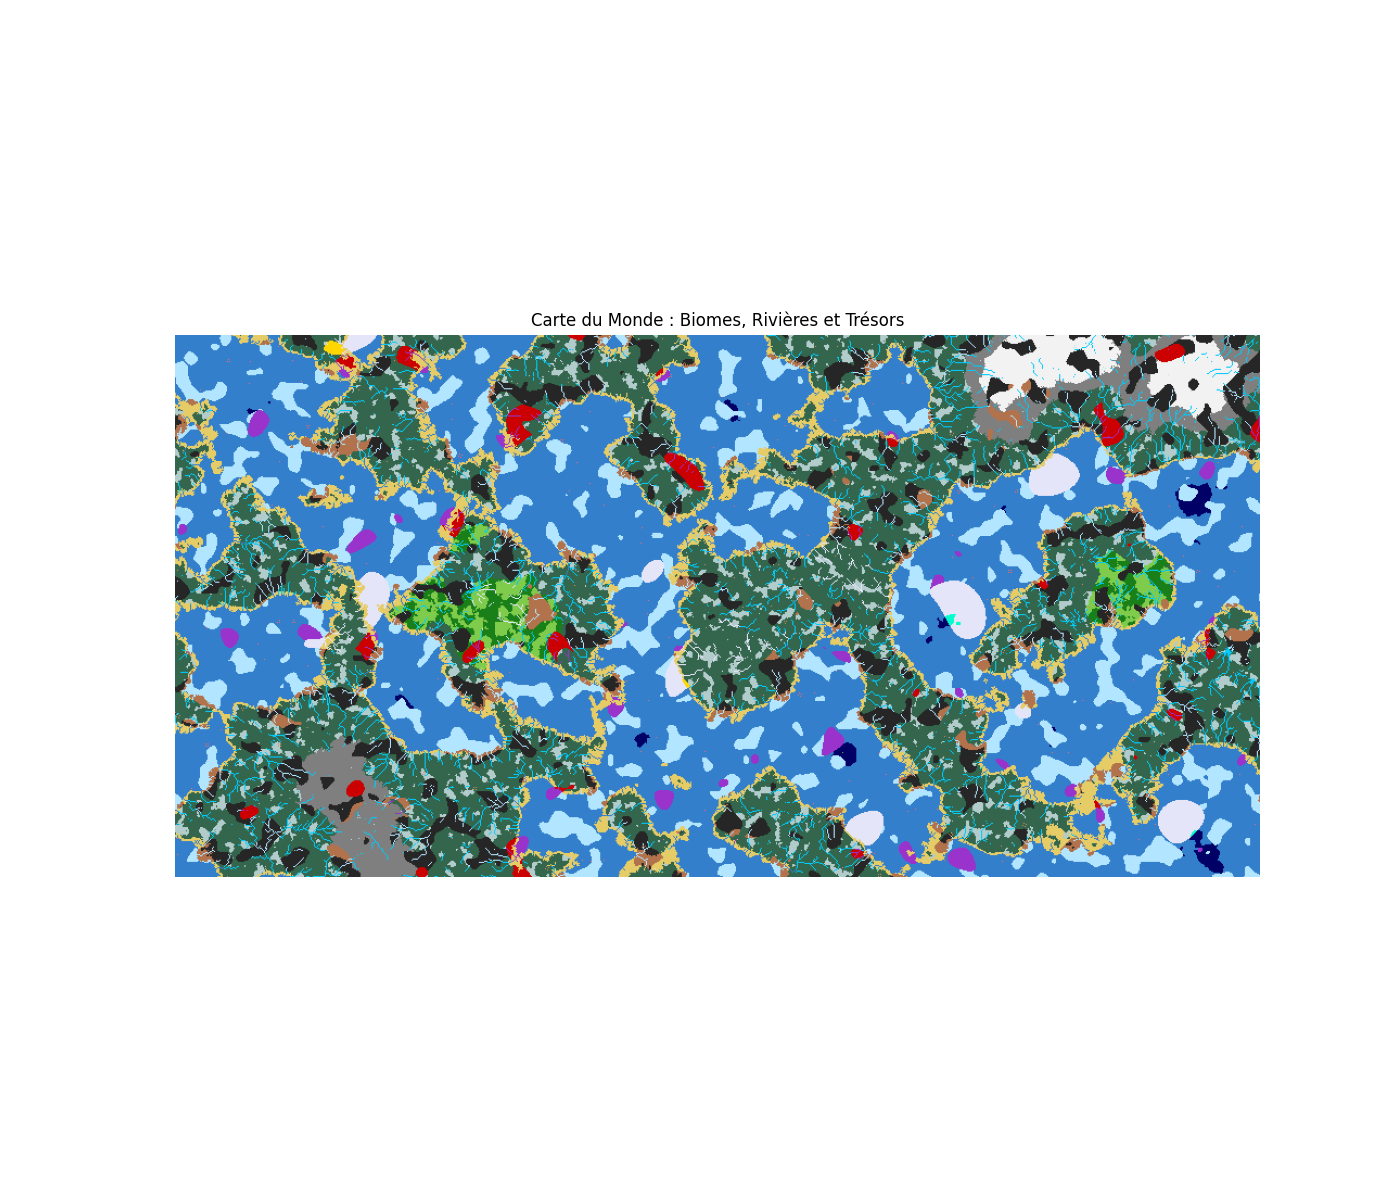
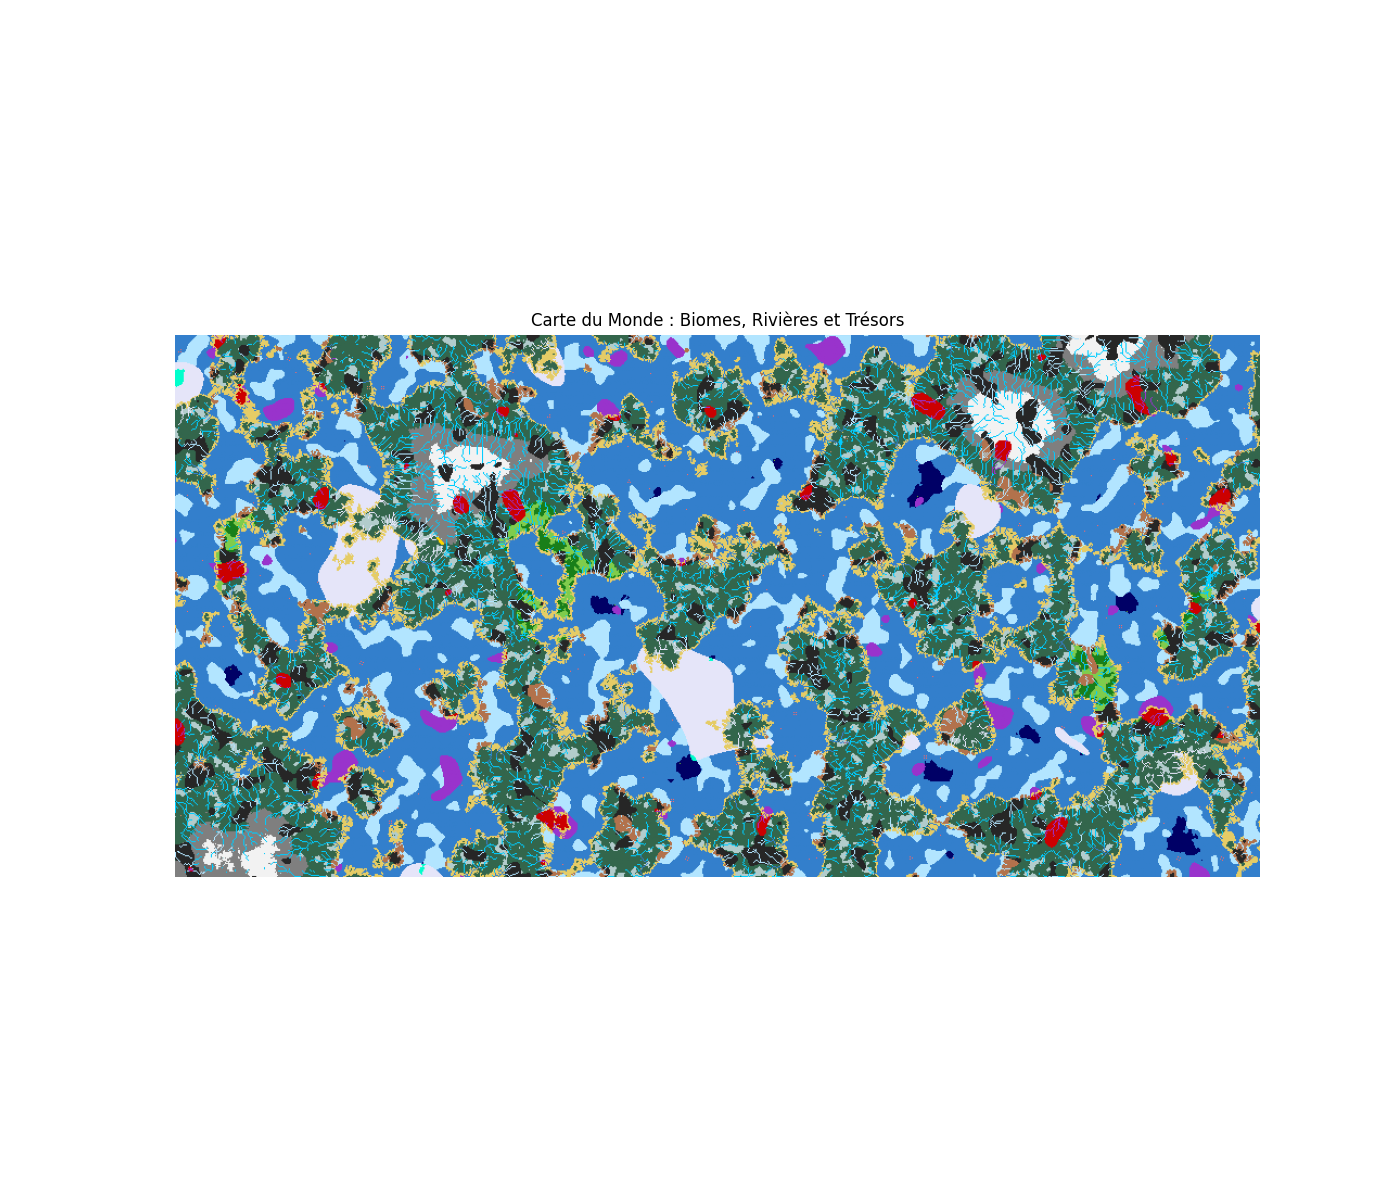
exemple d'affichage 3D dans navigateur

Changed region(s): [[0.1229, 0.2775, 0.9214, 0.74]]

diff --git a/gen_carte/test_python/index.html b/gen_carte/test_python/index.html
@@ -1,0 +1,172 @@
+<!DOCTYPE html>
+<html lang="fr">
+<head>
+    <meta charset="UTF-8">
+    <meta name="viewport" content="width=device-width, initial-scale=1.0">
+    <title>Exploration 3D - Flottaison sur l'Eau</title>
+    <style>
+        html, body {
+            overflow: hidden;
+            width: 100%;
+            height: 100%;
+            margin: 0;
+            padding: 0;
+            background-color: #e6ecf2;
+        }
+        #renderCanvas {
+            width: 100%;
+            height: 100%;
+            touch-action: none;
+        }
+        #crosshair {
+            position: absolute;
+            top: 50%;
+            left: 50%;
+            width: 6px;
+            height: 6px;
+            background: rgba(0, 0, 0, 0.2);
+            border-radius: 50%;
+            transform: translate(-50%, -50%);
+            pointer-events: none;
+        }
+    </style>
+    <script src="https://cdn.babylonjs.com/babylon.js"></script>
+</head>
+<body>
+
+    <div id="crosshair"></div>
+    <canvas id="renderCanvas"></canvas>
+
+    <script>
+        const canvas = document.getElementById("renderCanvas");
+        const engine = new BABYLON.Engine(canvas, true);
+
+        // Références globales pour y accéder dans la boucle de rendu
+        let camera;
+        const WATER_LEVEL = 0.0; // Altitude de la surface de l'eau
+        const PLAYER_HEIGHT = 1.8; // Taille des yeux du joueur par rapport à ses pieds
+
+        const createScene = function () {
+            const scene = new BABYLON.Scene(engine);
+
+            // ==========================================
+            // 1. CONFIGURATION DU BROUILLARD LUMINEUX
+            // ==========================================
+            const lightFogColor = new BABYLON.Color3(0.85, 0.9, 0.95);
+            scene.clearColor = lightFogColor; 
+
+            scene.fogMode = BABYLON.Scene.FOGMODE_LINEAR;
+            scene.fogColor = lightFogColor;
+            scene.fogStart = 2.0;  
+            scene.fogEnd = 100;   
+
+            // ==========================================
+            // 2. CONFIGURATION PHYSIQUE ET LUMIÈRES
+            // ==========================================
+            scene.collisionsEnabled = true;
+            scene.gravity = new BABYLON.Vector3(0, -0.15, 0);
+
+            const light = new BABYLON.HemisphericLight("light", new BABYLON.Vector3(0, 1, 0), scene);
+            light.intensity = 0.7;
+            light.groundColor = new BABYLON.Color3(0.2, 0.3, 0.1);
+
+            const sunLight = new BABYLON.DirectionalLight("sunLight", new BABYLON.Vector3(-0.5, -1, -0.5), scene);
+            sunLight.intensity = 0.8;
+
+            // ==========================================
+            // 3. CONFIGURATION DE L'EAU (ALTITUDE 0)
+            // ==========================================
+            const water = BABYLON.MeshBuilder.CreateGround("water", { width: 200, height: 200 }, scene);
+            water.position.y = WATER_LEVEL; 
+            
+            const waterMaterial = new BABYLON.StandardMaterial("waterMat", scene);
+            waterMaterial.diffuseColor = new BABYLON.Color3(0.1, 0.6, 0.8); 
+            waterMaterial.specularColor = new BABYLON.Color3(0.5, 0.5, 0.5); 
+            waterMaterial.alpha = 0.6; 
+            water.material = waterMaterial;
+
+            // ==========================================
+            // 4. CONFIGURATION DE LA CAMÉRA FPS
+            // ==========================================
+            camera = new BABYLON.UniversalCamera("cameraFPS", new BABYLON.Vector3(0, 40, 0), scene);
+            camera.attachControl(canvas, true);
+
+            camera.keysUp.push(90);    
+            camera.keysDown.push(83);  
+            camera.keysLeft.push(81);  
+            camera.keysRight.push(68); 
+
+            camera.speed = 0.8; 
+            camera.angularSensibility = 2000; 
+            
+            camera.checkCollisions = true;
+            camera.applyGravity = true;
+            camera.ellipsoid = new BABYLON.Vector3(1, PLAYER_HEIGHT, 1); 
+
+            canvas.addEventListener("click", () => {
+                canvas.requestPointerLock();
+            });
+
+            // ==========================================
+            // 5. MATÉRIAU ET CHARGEMENT DU TERRAIN
+            // ==========================================
+            const terrainMaterial = new BABYLON.StandardMaterial("terrainMat", scene);
+            terrainMaterial.diffuseColor = new BABYLON.Color3(0.4, 0.7, 0.3);
+            terrainMaterial.specularColor = new BABYLON.Color3(0.05, 0.05, 0.05);
+
+            const terrain = BABYLON.MeshBuilder.CreateGroundFromHeightMap(
+                "terrainProcedural", 
+                "terrain_heightmap.png", 
+                {
+                    width: 1000,          
+                    height: 500, 
+                    subdivisions: 250,   
+                    maxHeight: 50,       
+                    minHeight: -0.1,  
+                    onReady: function(mesh) {
+                        mesh.checkCollisions = true;
+                        
+                        camera.position.x = 0;
+                        camera.position.z = 0;
+                        
+                        let spawnY = mesh.getHeightAtCoordinates(0, 0);
+                        // Sécurité au démarrage : on force l'altitude au-dessus du niveau de l'eau
+                        camera.position.y = (spawnY < WATER_LEVEL ? WATER_LEVEL : spawnY) + PLAYER_HEIGHT;
+                        
+                        console.log("Monde chargé ! Sécurité anti-noyade activée.");
+                    }
+                }, 
+                scene
+            );
+            terrain.material = terrainMaterial;
+
+            // ==========================================
+            // 6. BOUCLE DE VÉRIFICATION AVANT RENDU
+            // ==========================================
+            // Cette fonction tourne en boucle juste avant de dessiner l'image
+            scene.registerBeforeRender(function () {
+                if (camera) {
+                    // Calcul de la position minimale autorisée pour les yeux (Niveau de l'eau + hauteur du regard)
+                    const limiteHauteurYeux = WATER_LEVEL + PLAYER_HEIGHT;
+                    
+                    if (camera.position.y < limiteHauteurYeux) {
+                        camera.position.y = limiteHauteurYeux;
+                    }
+                }
+            });
+
+            return scene;
+        };
+
+        const scene = createScene();
+
+        engine.runRenderLoop(function () {
+            scene.render();
+        });
+
+        window.addEventListener("resize", function () {
+            engine.resize();
+        });
+    </script>
+</body>
+</html>

diff --git a/gen_carte/test_python/gen_carte2.py b/gen_carte/test_python/gen_carte2.py
@@ -585,7 +585,7 @@ def generer_monde_final_avec_rivieres(
             ligne.append(case)
         monde.append(ligne)
 
-    return monde
+    return monde,hauteur_maxi
 
 
 # =============================================================================
@@ -691,7 +691,38 @@ def enregistrer_monde(nom, monde):
                 LONGUEUR 
             )
 
+from PIL import Image
 
+def generer_fichiers_terrain(tableau_monde, largeur, hauteur,hmax):
+    # 1. Créer les deux images vides
+    img_altitude = Image.new("L", (largeur, hauteur))      # Niveaux de gris (8-bit)
+    img_texture = Image.new("RGB", (largeur, hauteur))     # Couleur (Rouge, Vert, Bleu)
+    
+    pixels_alt = img_altitude.load()
+    pixels_tex = img_texture.load()
+    
+    for y in range(hauteur):
+        for x in range(largeur):
+            case = tableau_monde[y][x]
+            
+            # --- 1. Gestion de la hauteur ---
+            # Conversion de votre altitude logique (0.0 à 1.0) en octet (0 à 255)
+            pixels_alt[x, y] = int(case['altitude']/hmax * 255)
+            
+            # --- 2. Gestion de la nature du terrain ---
+            if case['type'] == 'roche':
+                pixels_tex[x, y] = (255, 0, 0)      # Rouge pur pour la roche
+            elif case['type'] == 'HERBE':
+                pixels_tex[x, y] = (0, 255, 0)      # Vert pur pour l'herbe
+            elif case['type'] == 'sable':
+                pixels_tex[x, y] = (0, 0, 255)      # Bleu pur pour le sable
+            else:
+                pixels_tex[x, y] = (0, 0, 0)        # Noir par défaut
+                
+    # Sauvegarde des fichiers pour votre projet Babylon.js
+    img_altitude.save("terrain_heightmap.png")
+    img_texture.save("terrain_splatmap.png")
+    
 # =============================================================================
 # POINT D'ENTRÉE PRINCIPAL (MAINEXECUTION)
 # =============================================================================
@@ -719,7 +750,7 @@ if __name__ == "__main__":
 
     # 4. Compilation du monde sous forme de dictionnaire structuré
     print("Compilation du monde...")
-    monde = generer_monde_final_avec_rivieres(
+    monde,hmax = generer_monde_final_avec_rivieres(
         LONGUEUR,
         LARGEUR,
         carte_hauteur,
@@ -733,10 +764,11 @@ if __name__ == "__main__":
 
     # 5. Visualisation graphique
     afficher_monde_couleur(monde)
+    generer_fichiers_terrain(monde, LONGUEUR, LARGEUR,hmax)
 
     # 6. Sauvegarde en Base de Données (Décommenter au besoin)
-    print("Exportation vers la base de données...")
-    gestion_db.create_db_monde(NOM_MONDE)
-    gestion_db.ajoute_info(NOM_MONDE, LONGUEUR, LARGEUR)
-    enregistrer_monde(NOM_MONDE, monde)
+    #print("Exportation vers la base de données...")
+    #gestion_db.create_db_monde(NOM_MONDE)
+    #gestion_db.ajoute_info(NOM_MONDE, LONGUEUR, LARGEUR)
+    #enregistrer_monde(NOM_MONDE, monde)
     print("--- Génération terminée avec succès ---")
